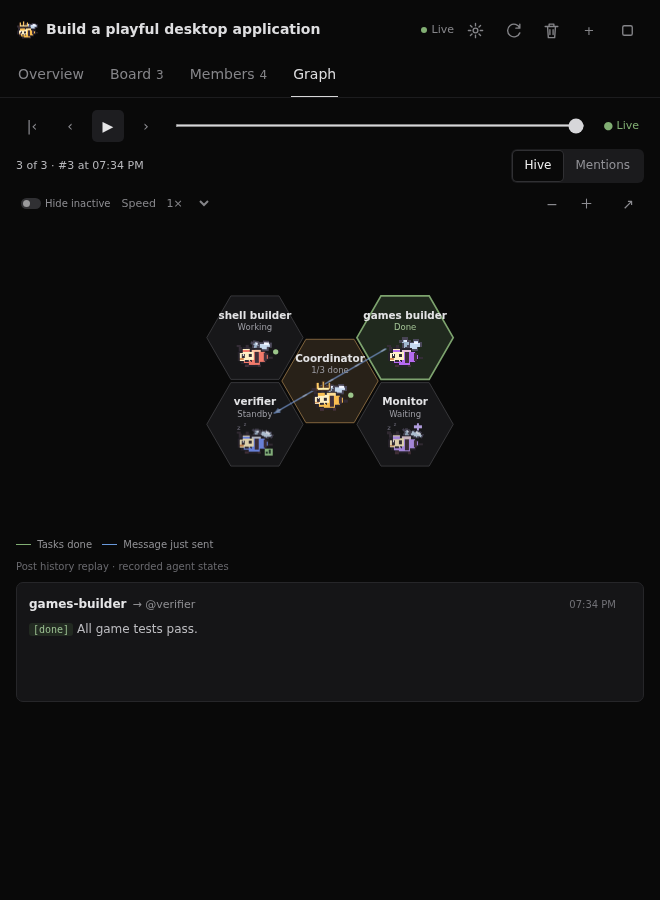
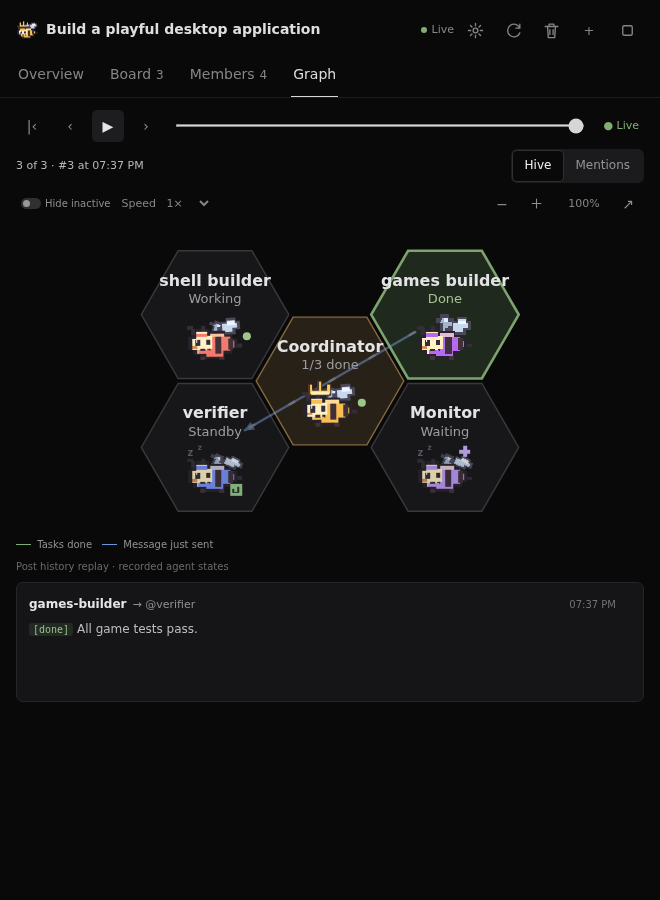
Fit graph to roster and center zoom without moving message preview

Changed region(s): [[0.2424, 0.2489, 0.7879, 0.56], [0.8788, 0.2178, 0.9091, 0.2489]]

diff --git a/src/panel.js b/src/panel.js
@@ -1,5 +1,5 @@
 import {connectHost} from '@openchamber/sdk';
-import {VIEW,layoutGraph,collectEdges,edgeGeometry} from './graph-layout.js';
+import {graphCamera,layoutGraph,collectEdges,edgeGeometry} from './graph-layout.js';
 const host=connectHost(), root=document.getElementById('app');
 let requestedSwarm='';
 let lastFeedCount=0;
@@ -51,7 +51,7 @@ function graph(s){
  const historic=m=>{if(replay===null)return m;const h=(s.history||[]).filter(x=>x.name===m.name&&x.post<=count).at(-1);return h?{...m,state:h.state,taskState:h.taskState}:m;};
  const all=[...s.members.map(historic),{name:'monitor',role:'monitor',state:s.status==='running'?(s.monitor?.bridgeConnected?'active':'waiting'):'retired',brief:'Supervises stalls and wakes members.'}];
  const nodes=all.filter(m=>(replay===null||m.role==='monitor'||m.role==='coordinator'||!(s.history||[]).length||(s.history||[]).some(h=>h.name===m.name&&h.post<=count))&&(!hideInactive||!['waiting','retired'].includes(m.state)||m.role==='coordinator'));
- const isHive=mode==='Hive', {positions:pos,r:hexR}=layoutGraph(all,isHive),view=VIEW,visible=new Set(nodes.map(m=>m.name));
+ const isHive=mode==='Hive', {positions:pos,r:hexR}=layoutGraph(all,isHive),view=graphCamera(pos,hexR,isHive,zoomLevel),visible=new Set(nodes.map(m=>m.name));
  const edges=collectEdges(posts,visible);
  const hex=(r)=>Array.from({length:6},(_,i)=>{const a=i*Math.PI/3;return [Math.cos(a)*r,Math.sin(a)*r].join(',');}).join(' ');
  const doneAt=m=>posts.some(p=>p.from===m.name&&['done','verified'].includes(p.kind));
@@ -72,7 +72,7 @@ function graph(s){
  drawing+='</g>';
  }
  const detail=nodes.find(m=>m.name===graphMember);
- return '<div class="graph-view" data-swarm="'+esc(s.id)+'"><section class="graph-shell '+(graphExpanded?'expanded':'')+'"><div class="timeline"><button id="first" aria-label="First post">|‹</button><button id="prev" aria-label="Previous post">‹</button><button id="play" aria-label="Play or pause">'+(playing?'Ⅱ':'▶')+'</button><button id="next" aria-label="Next post">›</button><input id="replay" type="range" min="0" max="'+s.posts.length+'" value="'+count+'" aria-label="Replay timeline"><button id="live" class="'+(replay===null?'live-button':'')+'">● Live</button></div><div class="graph-tools"><span class="counter">'+count+' of '+s.posts.length+(last?' · #'+last.id+' at '+fmt(last.at):'')+'</span><div class="segmented"><button data-mode="Hive" class="'+(isHive?'selected':'')+'">Hive</button><button data-mode="Mentions" class="'+(!isHive?'selected':'')+'">Mentions</button></div></div><div class="graph-tools secondary-tools"><button id="hideInactive" aria-pressed="'+hideInactive+'" class="subtle-button"><span class="switch '+(hideInactive?'on':'')+'"></span> Hide inactive</button><label>Speed <select id="pace"><option value=".5" '+(pace===.5?'selected':'')+'>0.5×</option><option value="1" '+(pace===1?'selected':'')+'>1×</option><option value="2" '+(pace===2?'selected':'')+'>2×</option></select></label><span class="push"></span><button id="minus" aria-label="Zoom out">−</button><button id="plus" aria-label="Zoom in"><svg class="control-icon" viewBox="0 0 24 24" fill="none" stroke="currentColor" stroke-width="1.7" stroke-linecap="round" stroke-linejoin="round" aria-hidden="true"><path d="M12 5v14M5 12h14"/></svg></button><button id="zoom" aria-label="Expand">↗</button></div><div class="graph-canvas"><svg class="graph" style="--graph-zoom:'+zoomLevel+'" viewBox="'+view.join(' ')+'" aria-label="Swarm communication graph">'+drawing+'</svg></div><div class="legend">'+(isHive?'<span><i class="line-key green"></i> Tasks done</span><span><i class="line-key blue"></i> Message just sent</span>':'<span><i class="line-key gray"></i> Connection · arrows show direction</span><span><i class="line-key blue"></i> Latest mention · select for counts</span>')+'</div><small class="graph-note">Post history replay · recorded agent states</small>'+(last?'<article class="replay-post"><div class="post-meta"><strong>'+esc(last.from)+'</strong><span class="post-target">→ '+esc(last.to.map(x=>'@'+x).join(' '))+'</span><span class="post-time">'+fmt(last.at)+'</span></div><div class="text"><span class="kind-chip '+esc(last.kind)+'">['+esc(last.kind)+']</span> '+esc(last.text)+'</div></article>':'<article class="replay-post"><div class="post-meta"><strong>Board message</strong></div><div class="text muted">Before the first post</div></article>')+'</section>'+(detail?'<div class="card member-detail"><div class="row">'+avatar(detail,all.indexOf(detail))+'<strong>@'+esc(detail.name)+'</strong> '+status(detail.state)+'</div><p>'+esc(detail.brief||'Supervises swarm activity')+'</p>'+(detail.sessionId?'<button data-open="'+esc(detail.sessionId)+'">Open conversation</button>':'')+'</div>':'')+'</div>';
+ return '<div class="graph-view" data-swarm="'+esc(s.id)+'"><section class="graph-shell '+(graphExpanded?'expanded':'')+'"><div class="timeline"><button id="first" aria-label="First post">|‹</button><button id="prev" aria-label="Previous post">‹</button><button id="play" aria-label="Play or pause">'+(playing?'Ⅱ':'▶')+'</button><button id="next" aria-label="Next post">›</button><input id="replay" type="range" min="0" max="'+s.posts.length+'" value="'+count+'" aria-label="Replay timeline"><button id="live" class="'+(replay===null?'live-button':'')+'">● Live</button></div><div class="graph-tools"><span class="counter">'+count+' of '+s.posts.length+(last?' · #'+last.id+' at '+fmt(last.at):'')+'</span><div class="segmented"><button data-mode="Hive" class="'+(isHive?'selected':'')+'">Hive</button><button data-mode="Mentions" class="'+(!isHive?'selected':'')+'">Mentions</button></div></div><div class="graph-tools secondary-tools"><button id="hideInactive" aria-pressed="'+hideInactive+'" class="subtle-button"><span class="switch '+(hideInactive?'on':'')+'"></span> Hide inactive</button><label>Speed <select id="pace"><option value=".5" '+(pace===.5?'selected':'')+'>0.5×</option><option value="1" '+(pace===1?'selected':'')+'>1×</option><option value="2" '+(pace===2?'selected':'')+'>2×</option></select></label><span class="push"></span><button id="minus" aria-label="Zoom out">−</button><button id="plus" aria-label="Zoom in"><svg class="control-icon" viewBox="0 0 24 24" fill="none" stroke="currentColor" stroke-width="1.7" stroke-linecap="round" stroke-linejoin="round" aria-hidden="true"><path d="M12 5v14M5 12h14"/></svg></button><button id="fit" aria-label="Reset graph zoom" title="Fit graph">'+Math.round(zoomLevel*100)+'%</button><button id="zoom" aria-label="Expand">↗</button></div><div class="graph-canvas"><svg class="graph" preserveAspectRatio="xMidYMid meet" viewBox="'+view.join(' ')+'" aria-label="Swarm communication graph">'+drawing+'</svg></div><div class="legend">'+(isHive?'<span><i class="line-key green"></i> Tasks done</span><span><i class="line-key blue"></i> Message just sent</span>':'<span><i class="line-key gray"></i> Connection · arrows show direction</span><span><i class="line-key blue"></i> Latest mention · select for counts</span>')+'</div><small class="graph-note">Post history replay · recorded agent states</small>'+(last?'<article class="replay-post"><div class="post-meta"><strong>'+esc(last.from)+'</strong><span class="post-target">→ '+esc(last.to.map(x=>'@'+x).join(' '))+'</span><span class="post-time">'+fmt(last.at)+'</span></div><div class="text"><span class="kind-chip '+esc(last.kind)+'">['+esc(last.kind)+']</span> '+esc(last.text)+'</div></article>':'<article class="replay-post"><div class="post-meta"><strong>Board message</strong></div><div class="text muted">Before the first post</div></article>')+'</section>'+(detail?'<div class="card member-detail"><div class="row">'+avatar(detail,all.indexOf(detail))+'<strong>@'+esc(detail.name)+'</strong> '+status(detail.state)+'</div><p>'+esc(detail.brief||'Supervises swarm activity')+'</p>'+(detail.sessionId?'<button data-open="'+esc(detail.sessionId)+'">Open conversation</button>':'')+'</div>':'')+'</div>';
 }
 function patchGraphElement(old,next){
  if(!old||!next||old.nodeType!==next.nodeType||old.nodeName!==next.nodeName){old?.replaceWith(next.cloneNode(true));return;}
@@ -109,7 +109,7 @@ function render(){
  root.querySelector('#swarmSettings')?.addEventListener('submit',async e=>{e.preventDefault();try{swarmSettings=await api('/settings',Object.fromEntries(new FormData(e.target)));settingsOpen=false;render();}catch(e){error=e.message;render();}});
  root.querySelector('#start').onsubmit=async e=>{e.preventDefault();const task=new FormData(e.target).get('task');let result;try{result=await launch(task);}catch(e){error=e.message;render();}if(result){root.querySelector('#start').reset();newFormOpen=false;root.querySelector('#start').hidden=true;render();}};
  root.querySelector('#new')?.addEventListener('click',()=>{newFormOpen=!newFormOpen;render();if(newFormOpen)root.querySelector('#start textarea').focus();});
- root.querySelector('#swarmSelect')?.addEventListener('change',e=>{clearInterval(timer);playing=false;selected=e.target.value;graphMember='';replay=null;deleteConfirm=false;stopConfirm=false;render();});
+ root.querySelector('#swarmSelect')?.addEventListener('change',e=>{clearInterval(timer);playing=false;selected=e.target.value;graphMember='';zoomLevel=1;replay=null;deleteConfirm=false;stopConfirm=false;render();});
  root.querySelector('#stop')?.addEventListener('click',()=>{stopConfirm=!stopConfirm;deleteConfirm=false;render();});
  root.querySelector('#delete')?.addEventListener('click',()=>{deleteConfirm=!deleteConfirm;stopConfirm=false;render();});
  root.querySelector('#cancelDelete')?.addEventListener('click',()=>{deleteConfirm=false;render();});
@@ -121,8 +121,9 @@ function render(){
  root.querySelectorAll('[data-node]').forEach(el=>{el.onclick=()=>{graphMember=graphMember===el.dataset.node?'':el.dataset.node;render();};el.onkeydown=e=>{if(e.key==='Enter'||e.key===' '){e.preventDefault();el.click();}};});
  root.querySelector('#zoom')?.addEventListener('click',()=>{graphExpanded=!graphExpanded;render();});
  root.querySelector('#hideInactive')?.addEventListener('click',()=>{hideInactive=!hideInactive;render();});
- root.querySelector('#minus')?.addEventListener('click',()=>{zoomLevel=Math.max(.7,zoomLevel-.2);render();});
- root.querySelector('#plus')?.addEventListener('click',()=>{zoomLevel=Math.min(2,zoomLevel+.2);render();});
+ root.querySelector('#minus')?.addEventListener('click',()=>{zoomLevel=Math.max(.6,Math.round((zoomLevel-.2)*10)/10);replayFrame();});
+ root.querySelector('#plus')?.addEventListener('click',()=>{zoomLevel=Math.min(2.4,Math.round((zoomLevel+.2)*10)/10);replayFrame();});
+ root.querySelector('#fit')?.addEventListener('click',()=>{zoomLevel=1;replayFrame();});
  root.querySelector('#first')?.addEventListener('click',()=>{replay=0;replayFrame();});
  root.querySelector('#pace')?.addEventListener('change',e=>{pace=Number(e.target.value);if(playing){clearInterval(timer);playing=false;}render();});
  root.querySelectorAll('[data-open]').forEach(el=>{el.onclick=e=>{if(e.target.closest('[data-retry]'))return;host.openSession(el.dataset.open).catch(e=>{error=e.message;render();});};el.onkeydown=e=>{if(e.key==='Enter'&&e.target===el)el.click();};});

diff --git a/panel/main.js b/panel/main.js
@@ -1604,6 +1604,16 @@
     }
     return { positions, r };
   }
+  function graphCamera(positions, r, hive, zoom = 1) {
+    const points = [...positions.values()];
+    if (!points.length)
+      return VIEW.slice();
+    const px = hive ? r + 14 : 64 + 12, py = hive ? Math.sqrt(3) * r / 2 + 14 : 13 + 12;
+    const xs = points.map((p) => p[0]), ys = points.map((p) => p[1]);
+    const left = Math.min(...xs) - px, right = Math.max(...xs) + px, top = Math.min(...ys) - py, bottom = Math.max(...ys) + py;
+    const cx = (left + right) / 2, cy = (top + bottom) / 2, w = (right - left) / zoom, h = (bottom - top) / zoom;
+    return [cx - w / 2, cy - h / 2, w, h];
+  }
   function collectEdges(posts, visible) {
     const pairs = new Map;
     for (const p of posts)
@@ -1792,7 +1802,7 @@
     };
     const all = [...s.members.map(historic), { name: "monitor", role: "monitor", state: s.status === "running" ? s.monitor?.bridgeConnected ? "active" : "waiting" : "retired", brief: "Supervises stalls and wakes members." }];
     const nodes = all.filter((m) => (replay === null || m.role === "monitor" || m.role === "coordinator" || !(s.history || []).length || (s.history || []).some((h) => h.name === m.name && h.post <= count)) && (!hideInactive || !["waiting", "retired"].includes(m.state) || m.role === "coordinator"));
-    const isHive = mode === "Hive", { positions: pos, r: hexR } = layoutGraph(all, isHive), view = VIEW, visible = new Set(nodes.map((m) => m.name));
+    const isHive = mode === "Hive", { positions: pos, r: hexR } = layoutGraph(all, isHive), view = graphCamera(pos, hexR, isHive, zoomLevel), visible = new Set(nodes.map((m) => m.name));
     const edges = collectEdges(posts, visible);
     const hex = (r) => Array.from({ length: 6 }, (_, i) => {
       const a = i * Math.PI / 3;
@@ -1827,7 +1837,7 @@
       drawing += "</g>";
     }
     const detail = nodes.find((m) => m.name === graphMember);
-    return '<div class="graph-view" data-swarm="' + esc(s.id) + '"><section class="graph-shell ' + (graphExpanded ? "expanded" : "") + '"><div class="timeline"><button id="first" aria-label="First post">|‹</button><button id="prev" aria-label="Previous post">‹</button><button id="play" aria-label="Play or pause">' + (playing ? "Ⅱ" : "▶") + '</button><button id="next" aria-label="Next post">›</button><input id="replay" type="range" min="0" max="' + s.posts.length + '" value="' + count + '" aria-label="Replay timeline"><button id="live" class="' + (replay === null ? "live-button" : "") + '">● Live</button></div><div class="graph-tools"><span class="counter">' + count + " of " + s.posts.length + (last ? " · #" + last.id + " at " + fmt(last.at) : "") + '</span><div class="segmented"><button data-mode="Hive" class="' + (isHive ? "selected" : "") + '">Hive</button><button data-mode="Mentions" class="' + (!isHive ? "selected" : "") + '">Mentions</button></div></div><div class="graph-tools secondary-tools"><button id="hideInactive" aria-pressed="' + hideInactive + '" class="subtle-button"><span class="switch ' + (hideInactive ? "on" : "") + '"></span> Hide inactive</button><label>Speed <select id="pace"><option value=".5" ' + (pace === 0.5 ? "selected" : "") + '>0.5×</option><option value="1" ' + (pace === 1 ? "selected" : "") + '>1×</option><option value="2" ' + (pace === 2 ? "selected" : "") + '>2×</option></select></label><span class="push"></span><button id="minus" aria-label="Zoom out">−</button><button id="plus" aria-label="Zoom in"><svg class="control-icon" viewBox="0 0 24 24" fill="none" stroke="currentColor" stroke-width="1.7" stroke-linecap="round" stroke-linejoin="round" aria-hidden="true"><path d="M12 5v14M5 12h14"/></svg></button><button id="zoom" aria-label="Expand">↗</button></div><div class="graph-canvas"><svg class="graph" style="--graph-zoom:' + zoomLevel + '" viewBox="' + view.join(" ") + '" aria-label="Swarm communication graph">' + drawing + '</svg></div><div class="legend">' + (isHive ? '<span><i class="line-key green"></i> Tasks done</span><span><i class="line-key blue"></i> Message just sent</span>' : '<span><i class="line-key gray"></i> Connection · arrows show direction</span><span><i class="line-key blue"></i> Latest mention · select for counts</span>') + '</div><small class="graph-note">Post history replay · recorded agent states</small>' + (last ? '<article class="replay-post"><div class="post-meta"><strong>' + esc(last.from) + '</strong><span class="post-target">→ ' + esc(last.to.map((x) => "@" + x).join(" ")) + '</span><span class="post-time">' + fmt(last.at) + '</span></div><div class="text"><span class="kind-chip ' + esc(last.kind) + '">[' + esc(last.kind) + "]</span> " + esc(last.text) + "</div></article>" : '<article class="replay-post"><div class="post-meta"><strong>Board message</strong></div><div class="text muted">Before the first post</div></article>') + "</section>" + (detail ? '<div class="card member-detail"><div class="row">' + avatar(detail, all.indexOf(detail)) + "<strong>@" + esc(detail.name) + "</strong> " + status(detail.state) + "</div><p>" + esc(detail.brief || "Supervises swarm activity") + "</p>" + (detail.sessionId ? '<button data-open="' + esc(detail.sessionId) + '">Open conversation</button>' : "") + "</div>" : "") + "</div>";
+    return '<div class="graph-view" data-swarm="' + esc(s.id) + '"><section class="graph-shell ' + (graphExpanded ? "expanded" : "") + '"><div class="timeline"><button id="first" aria-label="First post">|‹</button><button id="prev" aria-label="Previous post">‹</button><button id="play" aria-label="Play or pause">' + (playing ? "Ⅱ" : "▶") + '</button><button id="next" aria-label="Next post">›</button><input id="replay" type="range" min="0" max="' + s.posts.length + '" value="' + count + '" aria-label="Replay timeline"><button id="live" class="' + (replay === null ? "live-button" : "") + '">● Live</button></div><div class="graph-tools"><span class="counter">' + count + " of " + s.posts.length + (last ? " · #" + last.id + " at " + fmt(last.at) : "") + '</span><div class="segmented"><button data-mode="Hive" class="' + (isHive ? "selected" : "") + '">Hive</button><button data-mode="Mentions" class="' + (!isHive ? "selected" : "") + '">Mentions</button></div></div><div class="graph-tools secondary-tools"><button id="hideInactive" aria-pressed="' + hideInactive + '" class="subtle-button"><span class="switch ' + (hideInactive ? "on" : "") + '"></span> Hide inactive</button><label>Speed <select id="pace"><option value=".5" ' + (pace === 0.5 ? "selected" : "") + '>0.5×</option><option value="1" ' + (pace === 1 ? "selected" : "") + '>1×</option><option value="2" ' + (pace === 2 ? "selected" : "") + '>2×</option></select></label><span class="push"></span><button id="minus" aria-label="Zoom out">−</button><button id="plus" aria-label="Zoom in"><svg class="control-icon" viewBox="0 0 24 24" fill="none" stroke="currentColor" stroke-width="1.7" stroke-linecap="round" stroke-linejoin="round" aria-hidden="true"><path d="M12 5v14M5 12h14"/></svg></button><button id="fit" aria-label="Reset graph zoom" title="Fit graph">' + Math.round(zoomLevel * 100) + '%</button><button id="zoom" aria-label="Expand">↗</button></div><div class="graph-canvas"><svg class="graph" preserveAspectRatio="xMidYMid meet" viewBox="' + view.join(" ") + '" aria-label="Swarm communication graph">' + drawing + '</svg></div><div class="legend">' + (isHive ? '<span><i class="line-key green"></i> Tasks done</span><span><i class="line-key blue"></i> Message just sent</span>' : '<span><i class="line-key gray"></i> Connection · arrows show direction</span><span><i class="line-key blue"></i> Latest mention · select for counts</span>') + '</div><small class="graph-note">Post history replay · recorded agent states</small>' + (last ? '<article class="replay-post"><div class="post-meta"><strong>' + esc(last.from) + '</strong><span class="post-target">→ ' + esc(last.to.map((x) => "@" + x).join(" ")) + '</span><span class="post-time">' + fmt(last.at) + '</span></div><div class="text"><span class="kind-chip ' + esc(last.kind) + '">[' + esc(last.kind) + "]</span> " + esc(last.text) + "</div></article>" : '<article class="replay-post"><div class="post-meta"><strong>Board message</strong></div><div class="text muted">Before the first post</div></article>') + "</section>" + (detail ? '<div class="card member-detail"><div class="row">' + avatar(detail, all.indexOf(detail)) + "<strong>@" + esc(detail.name) + "</strong> " + status(detail.state) + "</div><p>" + esc(detail.brief || "Supervises swarm activity") + "</p>" + (detail.sessionId ? '<button data-open="' + esc(detail.sessionId) + '">Open conversation</button>' : "") + "</div>" : "") + "</div>";
   }
   function patchGraphElement(old, next) {
     if (!old || !next || old.nodeType !== next.nodeType || old.nodeName !== next.nodeName) {
@@ -2000,6 +2010,7 @@
       playing = false;
       selected = e.target.value;
       graphMember = "";
+      zoomLevel = 1;
       replay = null;
       deleteConfirm = false;
       stopConfirm = false;
@@ -2065,12 +2076,16 @@
       render();
     });
     root.querySelector("#minus")?.addEventListener("click", () => {
-      zoomLevel = Math.max(0.7, zoomLevel - 0.2);
-      render();
+      zoomLevel = Math.max(0.6, Math.round((zoomLevel - 0.2) * 10) / 10);
+      replayFrame();
     });
     root.querySelector("#plus")?.addEventListener("click", () => {
-      zoomLevel = Math.min(2, zoomLevel + 0.2);
-      render();
+      zoomLevel = Math.min(2.4, Math.round((zoomLevel + 0.2) * 10) / 10);
+      replayFrame();
+    });
+    root.querySelector("#fit")?.addEventListener("click", () => {
+      zoomLevel = 1;
+      replayFrame();
     });
     root.querySelector("#first")?.addEventListener("click", () => {
       replay = 0;

diff --git a/panel/style.css b/panel/style.css
@@ -29,8 +29,8 @@ main{max-width:1100px;margin:auto;padding:12px 16px 24px}.card,.goal{background:
 /* Accessible, comfortably sized controls; wrap on narrow panes rather than shrinking. */
 .header-actions{gap:4px}.header-actions .subtle-button{width:34px;height:34px;min-width:34px}.header-actions .control-icon{width:19px;height:19px}.header-actions .pill{font-size:11px}.tabs{gap:22px}.tabs button{font-size:14px;min-height:42px;padding:10px 2px}.tabs button span{font-size:12px}.header-title{font-size:14px}.timeline button,.secondary-tools button{min-width:32px;min-height:32px;font-size:14px}.segmented button{font-size:12px;min-height:30px;padding:5px 12px}.member-line .subtle-button{font-size:12px;min-height:30px;padding:5px 8px}.board-tools button{min-height:32px;font-size:12px}@media(max-width:520px){header{flex-wrap:wrap}.header-title{flex:1 1 100%}.header-actions{margin-left:auto}.tabs{gap:16px}.tabs button{font-size:13px}.header-actions .subtle-button{width:36px;height:36px}}
 /* Both graph modes share a fixed viewport and stable replay message area. */
-.graph-view .graph-canvas{height:clamp(205px,34vh,324px);min-height:0;max-width:none;margin:8px 0 0;overflow:auto;display:flex;align-items:center;justify-content:safe center;overscroll-behavior:contain}
-.graph-view .graph{width:calc(100% * var(--graph-zoom,1));height:calc(100% * var(--graph-zoom,1));flex-shrink:0;max-height:none;max-width:none;overflow:visible}
+.graph-view .graph-canvas{height:clamp(205px,34vh,324px);min-height:0;max-width:none;margin:8px 0 0;overflow:hidden;display:flex;align-items:center;justify-content:center;overscroll-behavior:contain}
+.graph-view .graph{width:100%;height:100%;flex-shrink:0;max-height:none;max-width:none;overflow:hidden}
 .graph-view .graph-shell.expanded .graph-canvas{height:clamp(240px,48vh,460px)}
 .graph-view .legend{min-height:18px;margin:4px 0;gap:10px;line-height:1.3;font-size:10px}
 .graph-view .graph-note{display:block;line-height:1.4;margin-bottom:6px}
@@ -55,3 +55,5 @@ main{max-width:1100px;margin:auto;padding:12px 16px 24px}.card,.goal{background:
 @media(prefers-reduced-motion:reduce){.graph-view .hive-cell,.graph-view .node,.graph-view .mention-edge>path{transition:none}.graph-view .message-trail,.bee-icon .bee-wing,.bee-icon .bee-flight,.bee-icon .sleep-z{animation:none!important}}
 .graph-view .mention-edge{animation:edge-appear .22s ease-out both}@keyframes edge-appear{from{opacity:0}to{opacity:1}}
 @media(prefers-reduced-motion:reduce){.graph-view .mention-edge{animation:none}}
+
+.graph-view #fit{font-variant-numeric:tabular-nums;min-width:44px;color:var(--muted);font-size:11px}.graph-view #fit:hover{color:var(--fg);background:var(--hover)}

diff --git a/tests/graph-layout.test.js b/tests/graph-layout.test.js
@@ -16,3 +16,17 @@ test('opposite mentions aggregate into one connection with independent direction
  assert.deepEqual(edges,[{a:'a',b:'b',ab:2,ba:1}]);
  assert.deepEqual(edgeGeometry([80,50],[560,50]),{path:'M148 50 L492 50',x:320,y:50});
 });
+test('fit and zoom use the roster bounds and preserve the exact camera center',async()=>{
+ const {graphCamera}=await import('../src/graph-layout.js');
+ for(let n=2;n<=13;n++)for(const hive of [true,false]){
+  const {positions,r}=layoutGraph([...roster.slice(0,n-1),roster[12]],hive);
+  const fit=graphCamera(positions,r,hive),zoom=graphCamera(positions,r,hive,1.8);
+  const center=v=>[v[0]+v[2]/2,v[1]+v[3]/2];
+  assert.ok(center(fit).every((v,i)=>Math.abs(v-center(zoom)[i])<1e-8));
+  assert.ok(Math.abs(fit[2]/zoom[2]-1.8)<1e-8);
+  for(const [x,y] of positions.values()){
+   const hx=hive?r:64,hy=hive?Math.sqrt(3)*r/2:13;
+   assert.ok(x-hx>=fit[0]&&x+hx<=fit[0]+fit[2]&&y-hy>=fit[1]&&y+hy<=fit[1]+fit[3]);
+  }
+ }
+});

diff --git a/src/graph-layout.js b/src/graph-layout.js
@@ -13,6 +13,16 @@ export function layoutGraph(roster,hive){
  }
  return {positions,r};
 }
+// Fit the complete roster, including members hidden by replay/filtering.
+export function graphCamera(positions,r,hive,zoom=1){
+ const points=[...positions.values()];
+ if(!points.length)return VIEW.slice();
+ const px=hive?r+14:64+12,py=hive?Math.sqrt(3)*r/2+14:13+12;
+ const xs=points.map(p=>p[0]),ys=points.map(p=>p[1]);
+ const left=Math.min(...xs)-px,right=Math.max(...xs)+px,top=Math.min(...ys)-py,bottom=Math.max(...ys)+py;
+ const cx=(left+right)/2,cy=(top+bottom)/2,w=(right-left)/zoom,h=(bottom-top)/zoom;
+ return [cx-w/2,cy-h/2,w,h];
+}
 export function collectEdges(posts,visible){
  const pairs=new Map();
  for(const p of posts)for(const to of p.to){if(p.from===to||!visible.has(p.from)||!visible.has(to))continue;const [a,b]=[p.from,to].sort(),key=JSON.stringify([a,b]);let e=pairs.get(key);if(!e){e={a,b,ab:0,ba:0};pairs.set(key,e);}e[p.from===a?'ab':'ba']++;}

diff --git a/README.md b/README.md
@@ -2,7 +2,7 @@
 
 Collaborative coding agents for [OpenChamber](https://github.com/openchamber/openchamber), inspired by Google Antigravity Swarms. A coordinator delegates work to independent agents, who communicate through a shared board, sleep when idle, and wake when needed.
 
-**Preview · v0.4.5** · OpenChamber 2.8.0+ · Tested with OpenCode 2.4.2
+**Preview · v0.4.6** · OpenChamber 2.8.0+ · Tested with OpenCode 2.4.2
 
 ## Installation
 
@@ -81,6 +81,6 @@ The regular monitor is model-free. Enable **AI advisory review when stalled** if
 
 This is an independent preview, not an official Antigravity implementation. It uses OpenChamber's extension SDK and OpenCode's native plugin API without patching either application.
 
-Nine automated tests and browser fixture tests pass. A live Copilot Auto diagnostic verified startup, agent recruitment, board communication and monitor checks; it was stopped before final task completion. Full parity and long-running production reliability are not yet established.
+Ten automated tests and browser fixture tests pass. A live Copilot Auto diagnostic verified startup, agent recruitment, board communication and monitor checks; it was stopped before final task completion. Full parity and long-running production reliability are not yet established.
 
 See [architecture, testing and limitations](docs/architecture.md) for implementation details, development commands and references.
